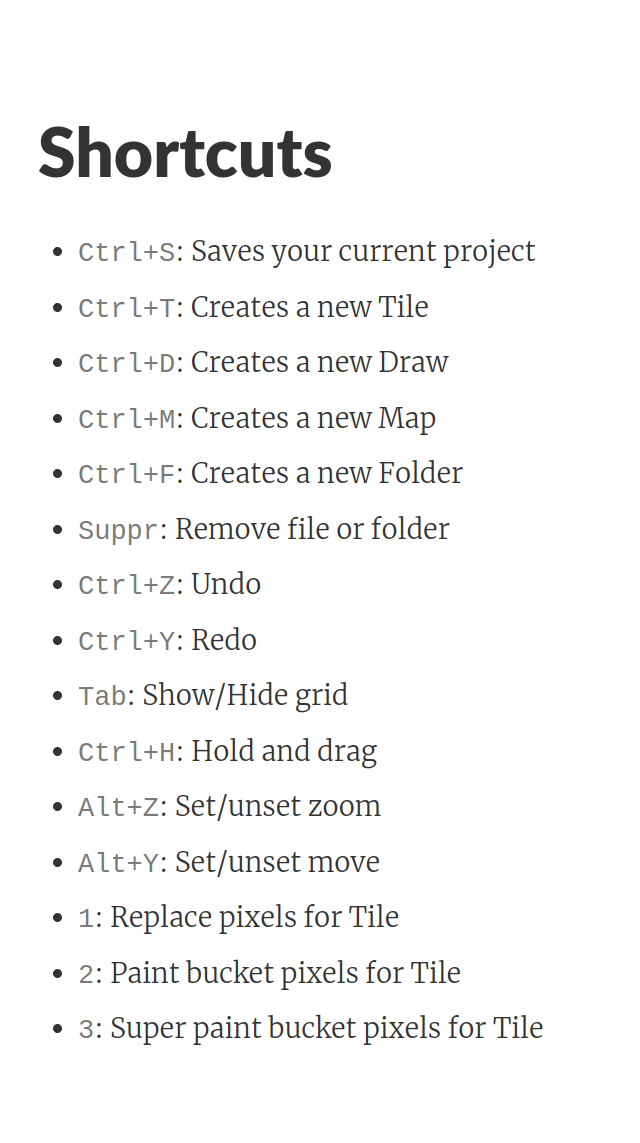
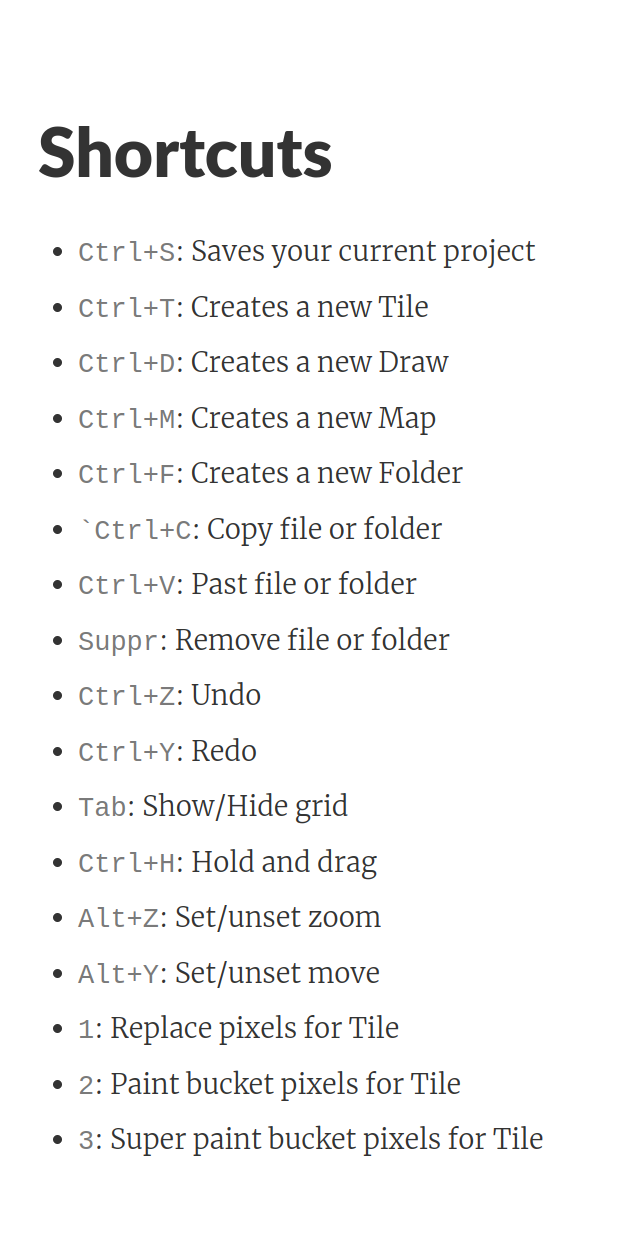
added rename

diff --git a/code/viewer.py b/code/viewer.py
@@ -954,6 +954,16 @@ class MainWindow(QMainWindow):
         #load
         loadAction = QAction("Load", self)
         
+        #copy
+        copyAction = QAction("Copy", self)
+        copyAction.setShortcut("Ctrl+C")
+        copyAction.triggered.connect(self.copyFile)
+        
+        #past
+        pastAction = QAction("Past", self)
+        pastAction.setShortcut("Ctrl+V")
+        pastAction.triggered.connect(self.pastFile)
+        
         #undo
         undoAction = QAction("Undo", self)
         undoAction.setShortcut("Ctrl+Z")
@@ -1021,6 +1031,10 @@ class MainWindow(QMainWindow):
         file_menu.addAction(newTileAction)
         file_menu.addAction(newDrawAction)
         file_menu.addAction(newMapAction)
+        file_menu.addSeparator()
+        
+        file_menu.addAction(copyAction)
+        file_menu.addAction(pastAction)
         
         edit_menu = self.menu.addMenu("&Edit")
         edit_menu.addAction(undoAction)
@@ -1091,6 +1105,32 @@ class MainWindow(QMainWindow):
             elif self.mod == "Map":
                 self.sceny.map = obj.copy()
                 self.drawScene(2)
+    
+    def rename(self):
+        selected_items = self.treeWidget.selectedItems()
+        if selected_items:
+            selected_item = selected_items[0]
+            path = joinpath(self.path, selected_item.data(1, Qt.DisplayRole))
+            self.createRename(path)
+    
+    def createRename(self, path, warning=0):
+        abspath = '/'.join(path.split('/')[:-1])
+        if warning == 1:
+            name, ok = QInputDialog.getText(self, "Rename", "This file or folder already existe")
+        elif warning == 2:
+            name, ok = QInputDialog.getText(self, "Rename", "The chossen name is not available")
+        else:
+            name, ok = QInputDialog.getText(self, "Rename", "Enter the new name")
+        if ok:
+            if '.' in name or '/' in name or name == '':
+                self.createRename(path, 2)
+            elif os.path.isdir(joinpath(abspath, name)):
+                self.createRename(path, 1)
+            else:
+                instantFrame = self.getTreeFrame()
+                os.rename(path, joinpath(abspath, name))
+                self.labelStatus.showMessage("Folder or file renamed", 2000)
+                self.setTreeframe(instantFrame)
                 
     def enableDarkMod(self):
         plt.style.use("dark_background")
@@ -1362,6 +1402,10 @@ class MainWindow(QMainWindow):
             pastAction = QAction("Past", self)
             pastAction.triggered.connect(self.pastFile)
             
+            #Rename
+            renameAction = QAction("Rename", self)
+            renameAction.triggered.connect(self.rename)
+            
             #New folder
             newFolderAction = QAction("New Folder", self)
             newFolderAction.triggered.connect(self.newFolder)
@@ -1384,6 +1428,7 @@ class MainWindow(QMainWindow):
             
             self.menu.addAction(copyAction)
             self.menu.addAction(pastAction)
+            self.menu.addAction(renameAction)
             self.menu.addSeparator()
             self.menu.addAction(newFolderAction)
             self.menu.addAction(newTileAction)
